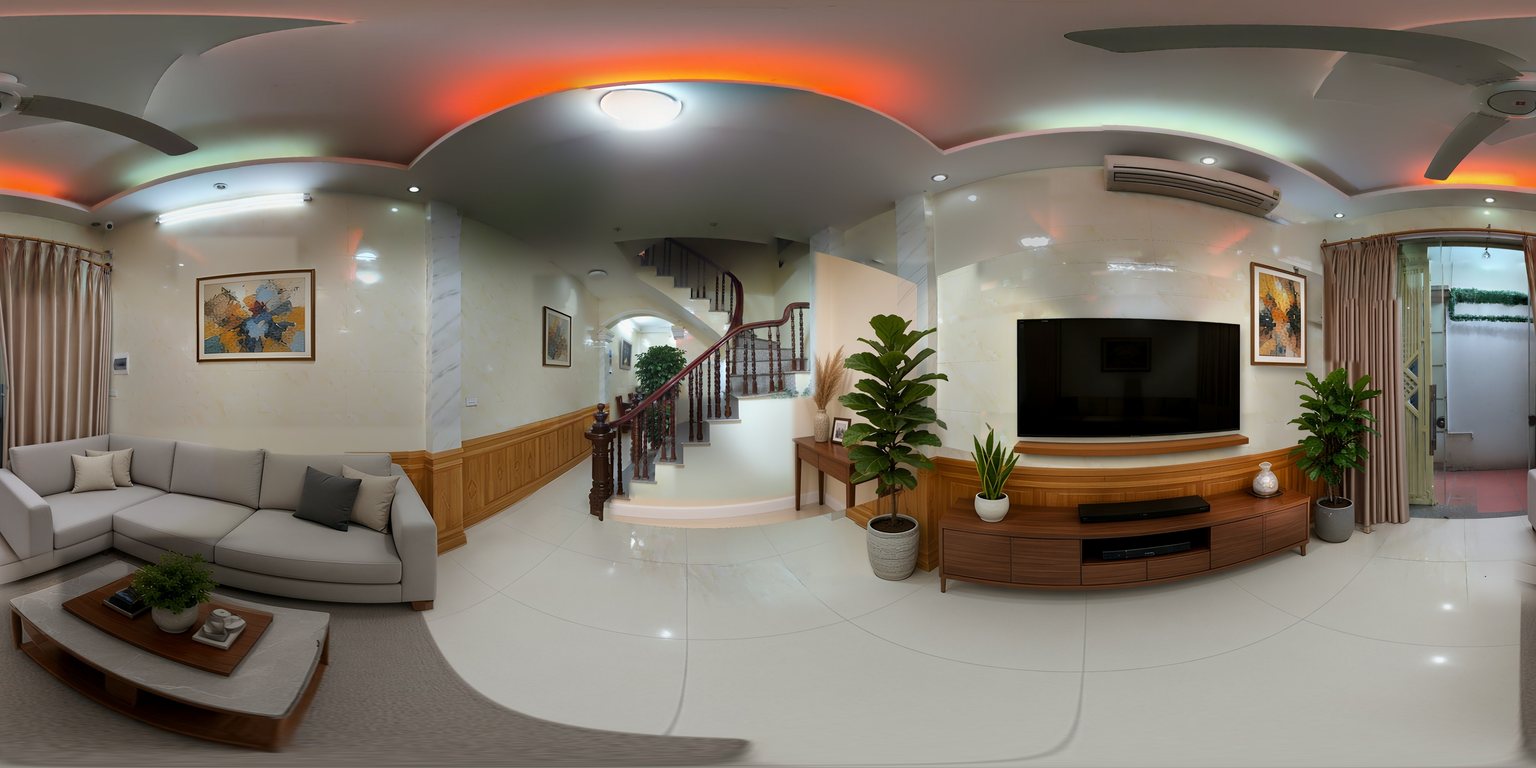
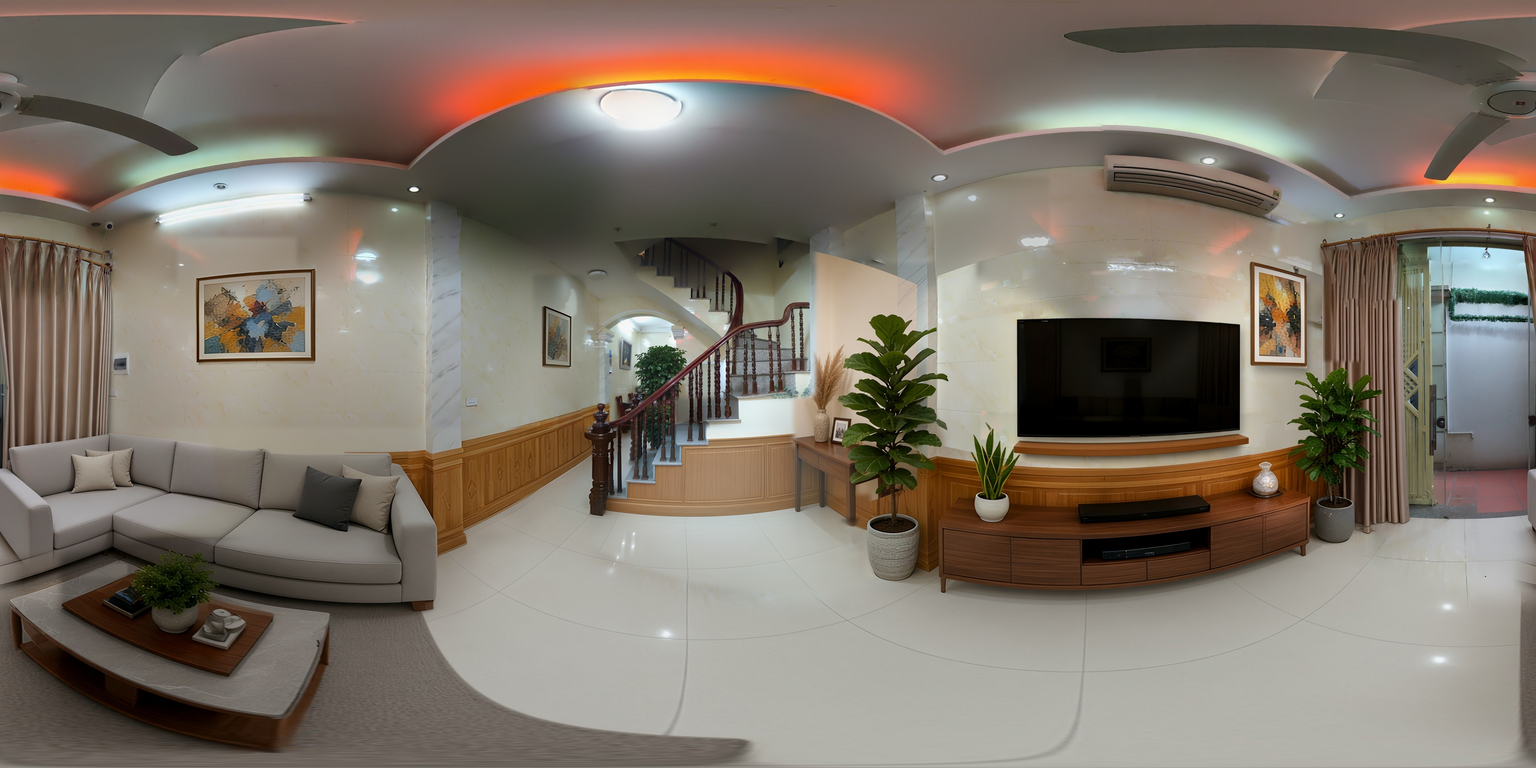
N1-01: add kitchen scene, refine living room

Changed region(s): [[0.375, 0.5312, 0.5625, 0.75]]

diff --git a/public/data/site.js b/public/data/site.js
@@ -210,11 +210,11 @@ window.SITE = {
           en: "Legal status: land use rights certificate (sổ đỏ) issued by the Hanoi Department of Natural Resources and Environment in 2017. Origin: transferred land use rights, recognized as state-allocated land with land use fee paid for 30.0 m² and without fee for 99.2 m². The house is not yet recorded on the certificate."
         },
         {
-          vi: "Tour 360° hiện có phòng khách tầng 1 và phòng giặt phơi. Ảnh đã được dàn dựng nội thất bằng kỹ thuật số, có thể khác thực tế.",
-          en: "The 360° tour currently shows the ground-floor living room and the laundry & drying room. The photo has been digitally staged and may differ from reality."
+          vi: "Tour 360° hiện có phòng khách tầng 1, phòng bếp và phòng giặt phơi. Các ảnh đã được dàn dựng nội thất bằng kỹ thuật số, có thể khác thực tế.",
+          en: "The 360° tour currently shows the ground-floor living room, the kitchen and the laundry & drying room. The photos have been digitally staged and may differ from reality."
         }
       ],
-      cover: "/assets/gallery/card-n1.jpg?v=20261029lr",
+      cover: "/assets/gallery/card-n1.jpg?v=20261029d",
       coverAlt: { vi: "Phòng khách tầng 1 nhà gần Vành đai 2.5", en: "Ground-floor living room of the house near Ring Road 2.5" },
       tour: {
         first: "living",
@@ -222,11 +222,25 @@ window.SITE = {
           {
             id: "living",
             name: { vi: "Phòng khách tầng 1", en: "Ground-floor living room" },
-            image: "/assets/panoramas/n1-livingroom.jpg?v=20261029lr",
+            image: "/assets/panoramas/n1-livingroom.jpg?v=20261029d",
             pitch: -6,
             yaw: -140,
             hotspots: [
               { pitch: -6, yaw: 178, target: "balcony", targetPitch: 0, targetYaw: 0, text: { vi: "Phòng giặt phơi", en: "Laundry & drying room" } },
+              { pitch: -4, yaw: -30, target: "kitchen", targetPitch: -6, targetYaw: -60, text: { vi: "Phòng bếp", en: "Kitchen" } },
+              { pitch: 8, yaw: -100, text: { vi: "Ảnh đã được dàn dựng nội thất bằng kỹ thuật số, có thể khác thực tế.", en: "This photo has been digitally staged and may differ from reality." } }
+            ],
+            info: []
+          },
+          {
+            id: "kitchen",
+            name: { vi: "Phòng bếp", en: "Kitchen" },
+            image: "/assets/panoramas/n1-kitchen.jpg?v=20261029d",
+            pitch: -6,
+            yaw: -60,
+            hotspots: [
+              { pitch: -6, yaw: 120, target: "living", targetPitch: -6, targetYaw: -140, text: { vi: "Phòng khách tầng 1", en: "Ground-floor living room" } },
+              { pitch: -2, yaw: 140, target: "balcony", targetPitch: 0, targetYaw: 0, text: { vi: "Phòng giặt phơi", en: "Laundry & drying room" } },
               { pitch: 8, yaw: -100, text: { vi: "Ảnh đã được dàn dựng nội thất bằng kỹ thuật số, có thể khác thực tế.", en: "This photo has been digitally staged and may differ from reality." } }
             ],
             info: []
@@ -238,7 +252,8 @@ window.SITE = {
             pitch: 0,
             yaw: 0,
             hotspots: [
-              { pitch: -6, yaw: 180, target: "living", targetPitch: -6, targetYaw: -140, text: { vi: "Phòng khách tầng 1", en: "Ground-floor living room" } }
+              { pitch: -6, yaw: 180, target: "living", targetPitch: -6, targetYaw: -140, text: { vi: "Phòng khách tầng 1", en: "Ground-floor living room" } },
+              { pitch: -6, yaw: 160, target: "kitchen", targetPitch: -6, targetYaw: -60, text: { vi: "Phòng bếp", en: "Kitchen" } }
             ],
             info: []
           }

diff --git a/public/can-ho/n1.html b/public/can-ho/n1.html
@@ -20,7 +20,7 @@
   <noscript><p class="wrap">Trang cần JavaScript để hiện nội dung và tour 360°.</p></noscript>
   <script src="/vendor/pannellum/pannellum.js"></script>
   <script src="/js/tour.js"></script>
-  <script src="/data/site.js?v=20261029c"></script>
-  <script src="/js/site.js?v=20261029c"></script>
+  <script src="/data/site.js?v=20261029d"></script>
+  <script src="/js/site.js?v=20261029d"></script>
 </body>
 </html>
